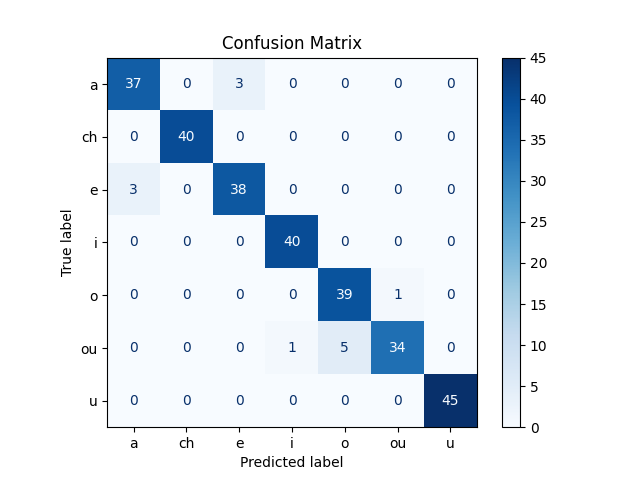
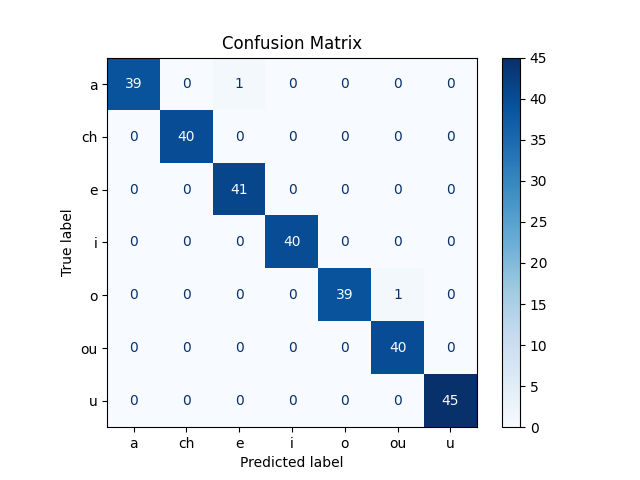
Confusion matrix results

diff --git a/debug/confusion_matrix.py b/debug/confusion_matrix.py
@@ -17,7 +17,7 @@ output_directory = "..\\dataset\\confusion_matrix\\"
 
 #shutil.rmtree(output_directory, ignore_errors=True)
 #os.makedirs(output_directory)
-features_name = "features_logfbank"
+features_name = "features_erbfcc"
 
 for csv_file in csv_files:
     dataframe = pd.read_csv(csv_file)
@@ -48,8 +48,8 @@ for csv_file in csv_files:
     sounds_adult = sounds_expected[df_adult.index.values]
 
     bc = BaryCentre()
-    SVC(probability=True, random_state=0, kernel='linear', gamma='scale')
-    predictions = cross_val_predict(bc, features, sounds_expected, cv=5)
+    svm = SVC(probability=True, random_state=0, kernel='linear', gamma='scale')
+    predictions = cross_val_predict(svm, features, sounds_expected, cv=5)
     cm = confusion_matrix(sounds_expected, predictions)
     disp = ConfusionMatrixDisplay(cm, display_labels=label_encoder.classes_)
     ax = disp.plot(cmap=plt.cm.Blues)
